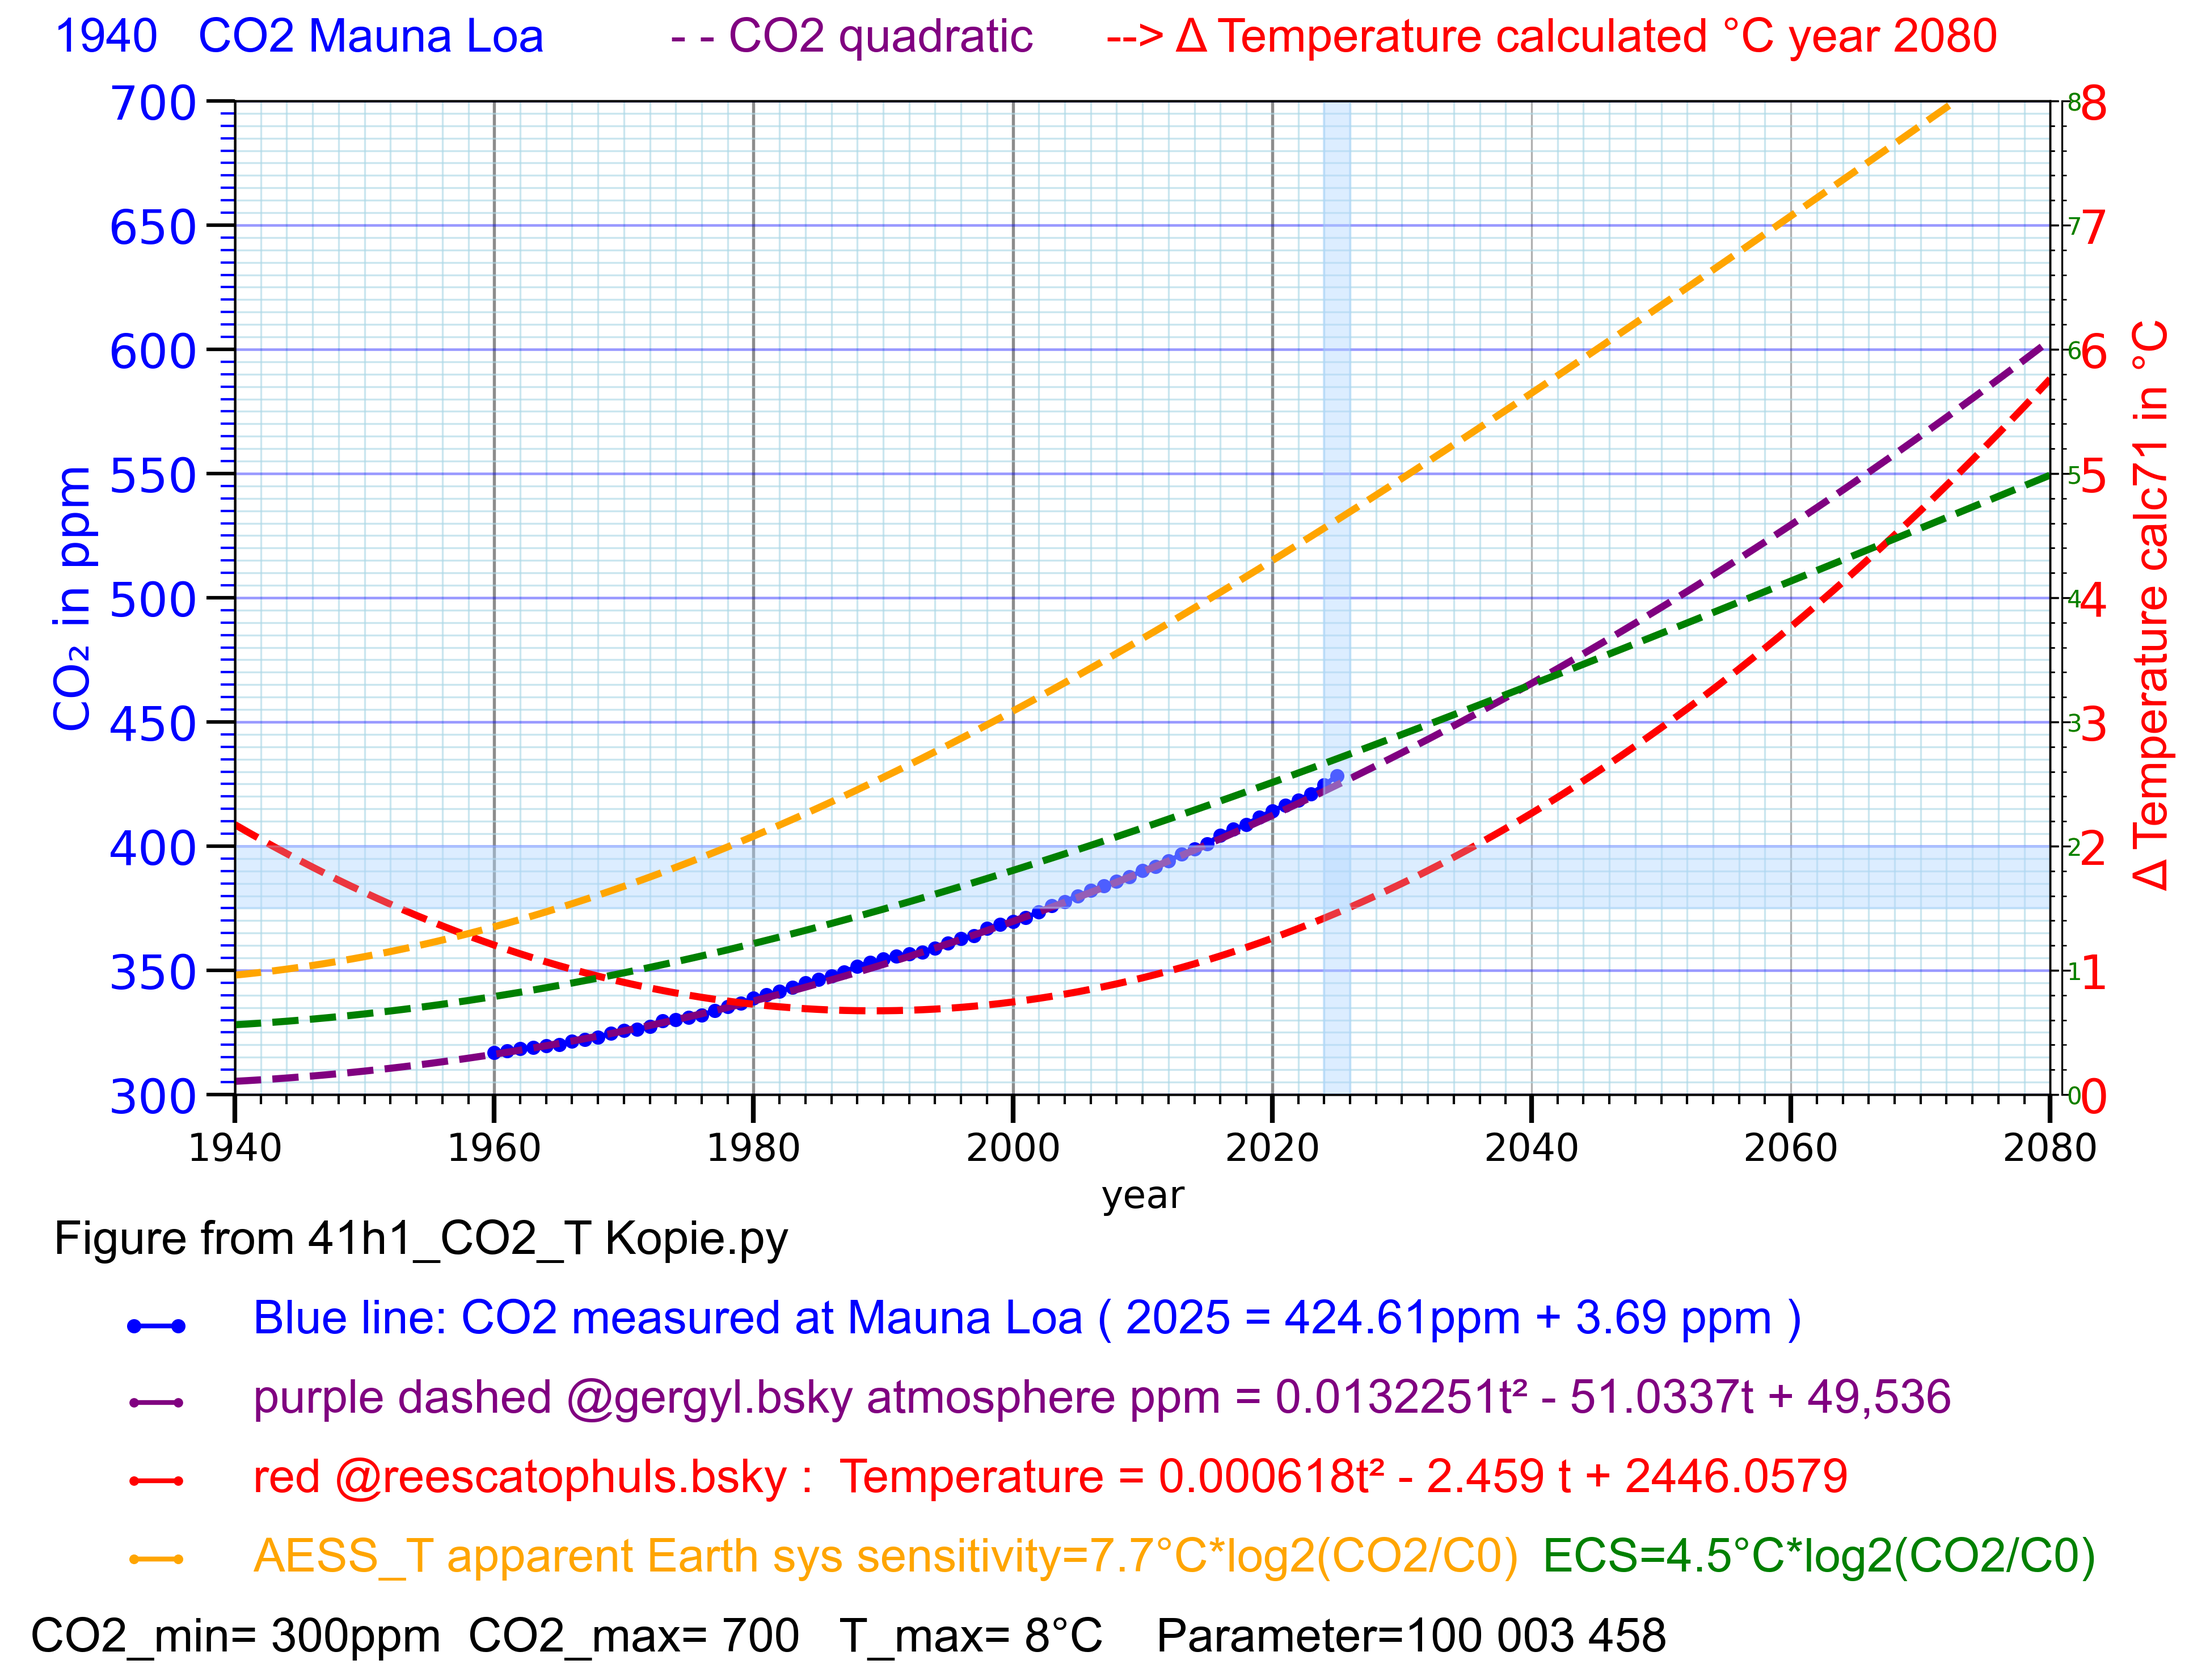
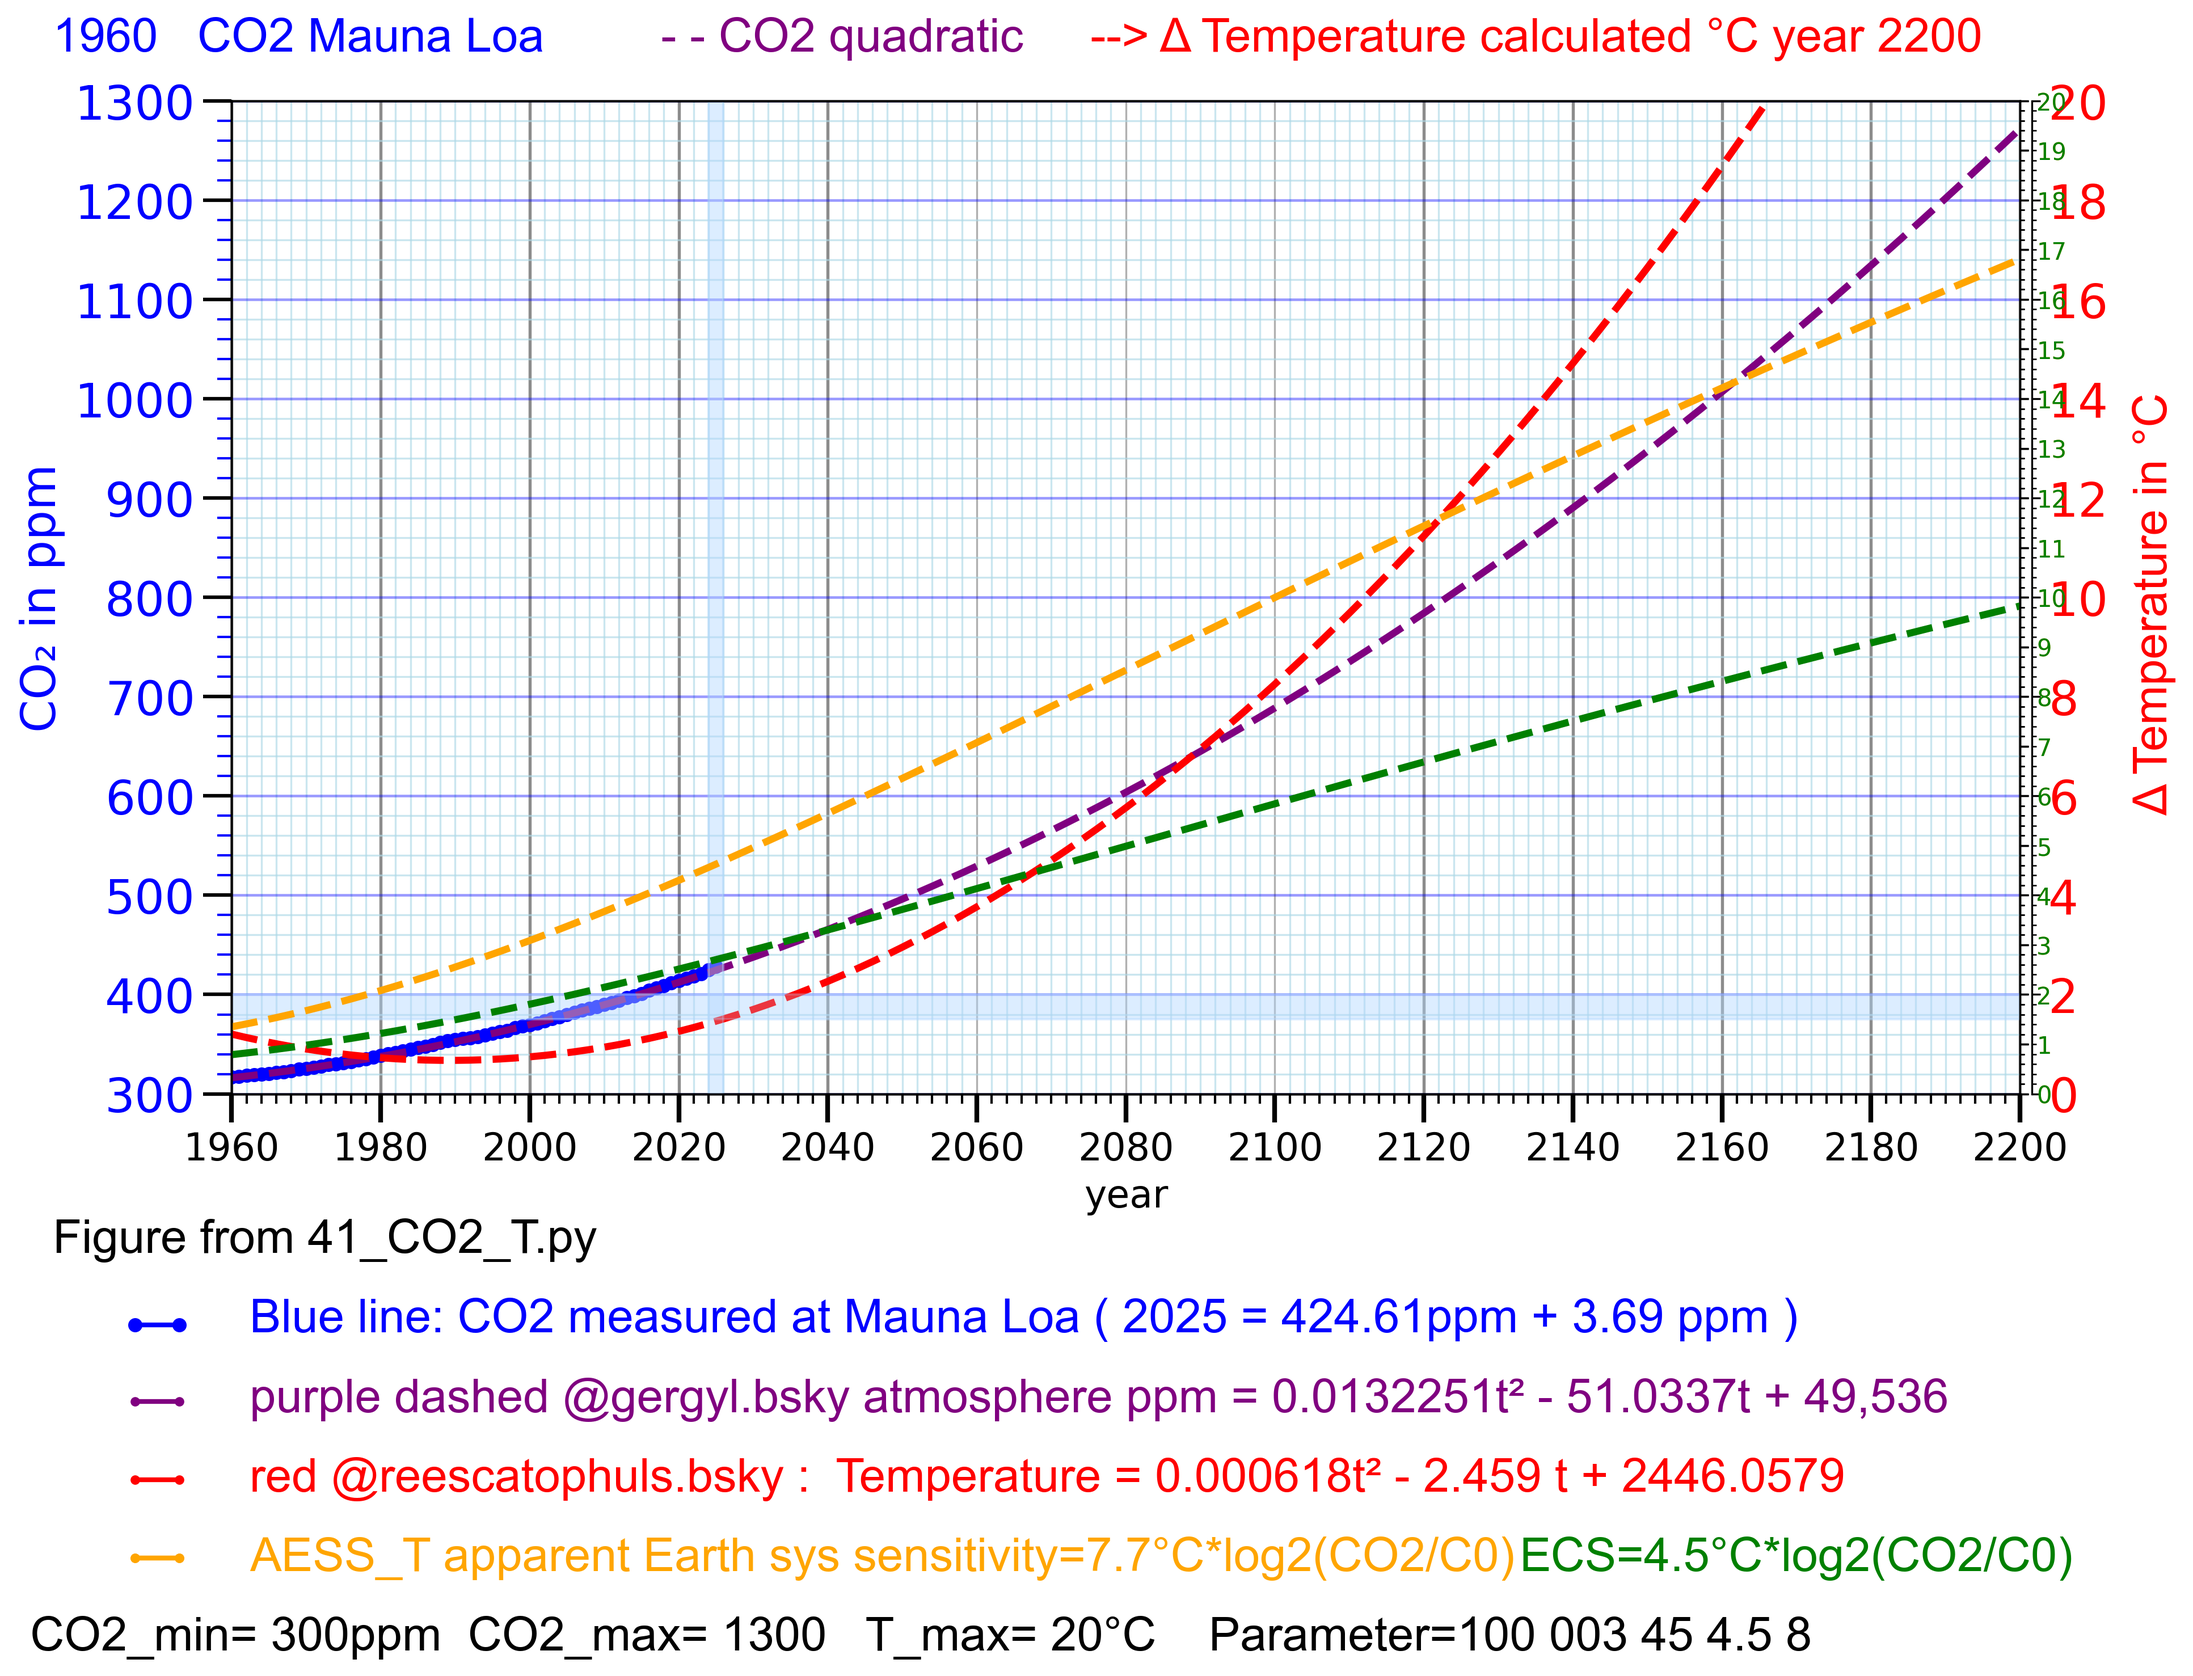
41h5_CO2_T.py 2200

diff --git a/41_CO2_T.py b/41_CO2_T.py
@@ -1,4 +1,4 @@
-# 41h3_CO2_T.py 2200
+# 41h5_CO2_T.py 2200
 # Thomas Boettcher
 # part 0 variables
 # part 1 plot CO2 Mauna Loa
@@ -405,7 +405,7 @@ if plot71_temperature > 0:
    else:
       ax7.spines.right.set_position(("outward", 5))
    ax7.set_ylabel (
-         "Δ Temperature calc71 in °C ",
+         "Δ Temperature in °C ",
          color=c71,
          fontname="Arial",fontsize=20,
          labelpad=10   # smaller = closer to y axis
@@ -538,41 +538,6 @@ else:
    plt.text(-0.1, 1.05, header, color="black", fontname="Arial", fontsize=18,
             transform=plt.gca().transAxes)
             
-# 8.4 legende Mauna Loa blau plot1_Mauna_Loa_
-if plot1_Mauna_Loa_ > 6: # 8.5.1 legende world data plot1_Mauna_Loa_
-   K1_text=" Blue: CO2 measured at Mauna Loa ( 2025 = 424.61ppm + 3.69 ppm )"
-   plt.text(0.02, 0.95, K1_text, color="blue", fontname="Arial", fontsize=16,
-   transform=plt.gca().transAxes)
-   ax1.plot([x_anf+1, x_anf +2], [y_max -5, y_max -5], marker="o", markersize=5, color="blue", linewidth=2, label="short line")
-# 8.5 plot2_population_on = 1 # 0 keine Bevölkerung , 1 = Bevölkerung in grün
-if plot1_Mauna_Loa_ > 8:
-   if plot2_population_on > 0:
-      plt.text(0.02, 0.90,"green: Human Population in billion K2", color="green", fontname="Arial", fontsize=14,
-      transform=plt.gca().transAxes)
-# 8.6 legende
-if plot1_Mauna_Loa_ > 8:
-   if plot3_delta_CO2_red_bars > 0:
-      plt.text(0.02, 0.86," red bars: Mauna Loa yearly increase. //see right larger ppm scaling", color="red", fontname="Arial", fontsize=14,
-      transform=plt.gca().transAxes)
-      ax1.plot([x_anf+1, x_anf +2], [y_max -21, y_max -21], marker="_", markersize=5, color="red", linewidth=8)
-# 8.7 legende '--', label="Glen *parabola* ( 0.0132t² - 51t + 49,536) K4", color="orange", linewidth=3)
-if plot1_Mauna_Loa_ > 8:
-   if plot4_CO2_orange2025 > 0:
-      plt.text(0.02, 0.80," orange: Glen formula ppm = 0.0132 t² - 51 t + 49,536 ", color="orange", fontname="Arial", fontsize=14,
-      transform=plt.gca().transAxes)
-      ax1.plot([x_anf+1, x_anf +2], [y_max -30.5, y_max -30.5], marker="_", markersize=5, color="orange", linewidth=3)
-# 8.8 legend in the plot
-if plot1_Mauna_Loa_ > 8:
-   if plot5_Glen_delta_on > 0:
-      plt.text(0.02, 0.29," green bars: Difference Mauna Loa - Glen quadratic t² //see right larger ppm scaling", color="green", fontname="Arial", fontsize=14,
-      transform=plt.gca().transAxes)
-      ax1.plot([x_anf+1, x_anf +2], [y_max -52, y_max -52], marker="_", markersize=5, color="green", linewidth=8)
-# 8.9 legend in the plot
-if plot1_Mauna_Loa_ > 8:
-   if plot6_Glen_CO2_on > 0:
-      plt.text(0.02, 0.85," Red: Glen formula ppm = 0.0132251t² - 51.0337t + 49,536", color="red", fontname="Arial", fontsize=16,
-      transform=plt.gca().transAxes)
-      ax1.plot([x_anf+1, x_anf +2], [y_max -12, y_max -12], marker="_", markersize=5, color="red", linewidth=3)
 
 
 # 9 part 9 print information below the plot field
@@ -819,8 +784,8 @@ if parameter18_save_png > 0:
    filename = filename + "_"
    filename = filename + header_parameter
    filename = filename + str(x_end)
-   path = f"/Users/thomasboettcher/Desktop/python/{filename}"
-   fig.savefig(path, dpi=300, bbox_inches="tight")
+   #path = f"/Users/thomasboettcher/Desktop/python/{filename}"
+   #fig.savefig(path, dpi=300, bbox_inches="tight")
    path = f"/Users/thomasboettcher/documents/Python/4_Python_CO2/41_CO2_T.png"
    fig.savefig(path, dpi=300, bbox_inches="tight")
 # 9.9 close the plotted figure
@@ -863,6 +828,41 @@ plt.ylabel("Temperature Anomaly (°C)")
 plt.grid(True)
 plt.show()
 """
+# 8.4 legende Mauna Loa blau plot1_Mauna_Loa_
+if plot1_Mauna_Loa_ > 6: # 8.5.1 legende world data plot1_Mauna_Loa_
+   K1_text=" Blue: CO2 measured at Mauna Loa ( 2025 = 424.61ppm + 3.69 ppm )"
+   plt.text(0.02, 0.95, K1_text, color="blue", fontname="Arial", fontsize=16,
+   transform=plt.gca().transAxes)
+   ax1.plot([x_anf+1, x_anf +2], [y_max -5, y_max -5], marker="o", markersize=5, color="blue", linewidth=2, label="short line")
+# 8.5 plot2_population_on = 1 # 0 keine Bevölkerung , 1 = Bevölkerung in grün
+if plot1_Mauna_Loa_ > 8:
+   if plot2_population_on > 0:
+      plt.text(0.02, 0.90,"green: Human Population in billion K2", color="green", fontname="Arial", fontsize=14,
+      transform=plt.gca().transAxes)
+# 8.6 legende
+if plot1_Mauna_Loa_ > 8:
+   if plot3_delta_CO2_red_bars > 0:
+      plt.text(0.02, 0.86," red bars: Mauna Loa yearly increase. //see right larger ppm scaling", color="red", fontname="Arial", fontsize=14,
+      transform=plt.gca().transAxes)
+      ax1.plot([x_anf+1, x_anf +2], [y_max -21, y_max -21], marker="_", markersize=5, color="red", linewidth=8)
+# 8.7 legende '--', label="Glen *parabola* ( 0.0132t² - 51t + 49,536) K4", color="orange", linewidth=3)
+if plot1_Mauna_Loa_ > 8:
+   if plot4_CO2_orange2025 > 0:
+      plt.text(0.02, 0.80," orange: Glen formula ppm = 0.0132 t² - 51 t + 49,536 ", color="orange", fontname="Arial", fontsize=14,
+      transform=plt.gca().transAxes)
+      ax1.plot([x_anf+1, x_anf +2], [y_max -30.5, y_max -30.5], marker="_", markersize=5, color="orange", linewidth=3)
+# 8.8 legend in the plot
+if plot1_Mauna_Loa_ > 8:
+   if plot5_Glen_delta_on > 0:
+      plt.text(0.02, 0.29," green bars: Difference Mauna Loa - Glen quadratic t² //see right larger ppm scaling", color="green", fontname="Arial", fontsize=14,
+      transform=plt.gca().transAxes)
+      ax1.plot([x_anf+1, x_anf +2], [y_max -52, y_max -52], marker="_", markersize=5, color="green", linewidth=8)
+# 8.9 legend in the plot
+if plot1_Mauna_Loa_ > 8:
+   if plot6_Glen_CO2_on > 0:
+      plt.text(0.02, 0.85," Red: Glen formula ppm = 0.0132251t² - 51.0337t + 49,536", color="red", fontname="Arial", fontsize=16,
+      transform=plt.gca().transAxes)
+      ax1.plot([x_anf+1, x_anf +2], [y_max -12, y_max -12], marker="_", markersize=5, color="red", linewidth=3)
 
 
 # Datenquellen:
